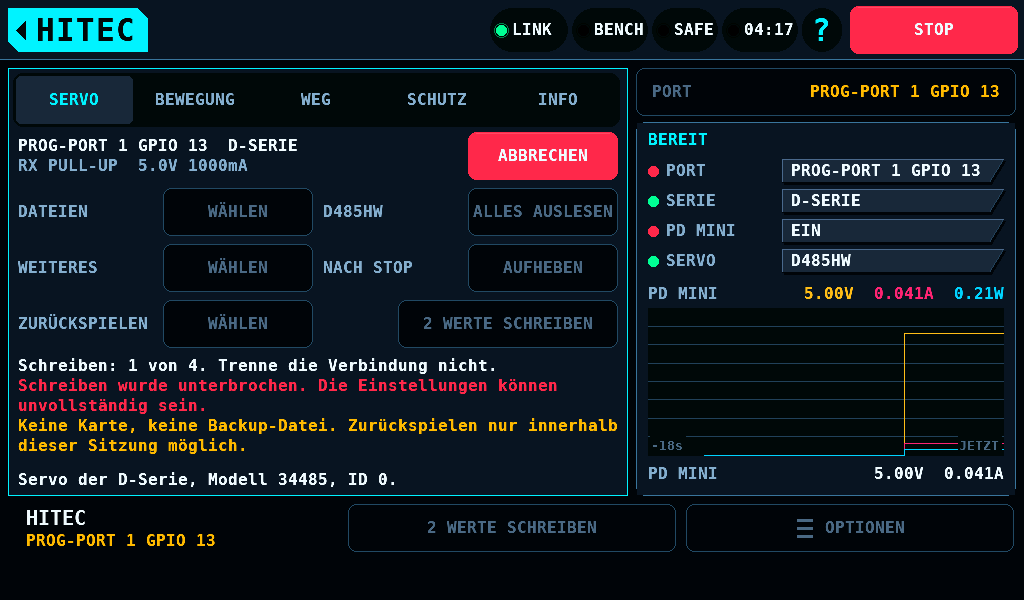
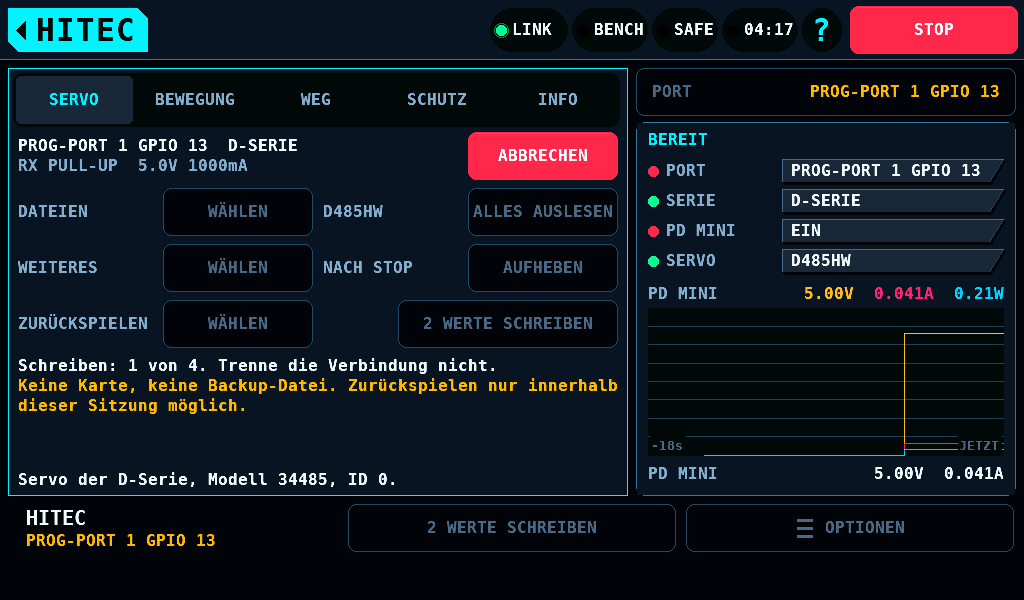
Show no interrupted-write line on the HITEC tab while a write runs

Changed region(s): [[0.0, 0.63, 0.625, 0.75]]

diff --git a/shared/ui/hitec_panel_draw.c b/shared/ui/hitec_panel_draw.c
@@ -87,14 +87,21 @@ static void note(plan_t *p, const char *s, gfx_color_t color)
 
 /**
  * @brief What stands of a write: a record of one interrupted, and a READ
- *        ALL owed before the next.
+ *        ALL owed before the next.  Nothing while a write runs.
  * @param p the plan
  */
 static void record_notes(plan_t *p)
 {
     const hitec_prog_t *pr = &hp.prog;
     const gfx_color_t danger = ui_theme_color(UI_C_DANGER);
+    const hitec_prog_state_t st = hitec_prog_state(pr);
 
+    if (st == HITEC_PROG_RECORDING || st == HITEC_PROG_WRITING
+        || st == HITEC_PROG_BACKUP) {
+        /* The record on the card is the write in flight, not an
+         * interrupted one; the state line says the write's step. */
+        return;
+    }
     if (hitec_prog_record(pr)) {
         switch (hitec_prog_record_verdict(pr)) {
         case HITEC_PROG_REC_NONE:

diff --git a/test/host/test_hitec_panel_write.c b/test/host/test_hitec_panel_write.c
@@ -605,6 +605,8 @@ TEST_CASE(the_overlay_hands_the_record_to_the_card_and_says_each_phase)
     CHECK_EQ(pstate(), HITEC_PROG_WRITING);
     show();
     CHECK(strncmp(hitec_panel_note(0), "Writing 1 of ", 13) == 0);
+    /* The record on the card is this write's: no interrupted write. */
+    CHECK(!note_has(TR(KP_M_JOURNAL)));
     until(HITEC_PROG_HELD);
     show();
     CHECK_STR_EQ(said(), TR(KP_M_WRITTEN_ONE));

diff --git a/docs/HitecProgrammer-de.md b/docs/HitecProgrammer-de.md
@@ -437,7 +437,7 @@ ZURÜCKSPIELEN geprüft endet oder er verworfen wird. Mit Karte
 wird er beim nächsten Start des Panels wieder gelesen: ein Panel, das
 während eines Schreibens neu startet, behält ihn. Dann sagt das
 Meldungsband `Schreiben wurde unterbrochen. Die Einstellungen können unvollständig sein.` und `Benutze das Servo nicht. Schließe es an GPIO 13 an und tippe auf ALLES AUSLESEN.`, und der Reiter SERVO behält die
-erste Zeile, bis ein Servo gelesen ist. Das nächste vollständige Lesen
+erste Zeile, bis ein Servo gelesen ist. Solange das Schreiben läuft, zeigt der Reiter stattdessen den Schritt des Schreibens. Das nächste vollständige Lesen
 vergleicht das Servo mit dem Vermerk, Adresse für Adresse über die
 Adressen, die ein Schreiben ändert:
 

diff --git a/docs/HitecProgrammer.md b/docs/HitecProgrammer.md
@@ -414,7 +414,7 @@ it is discarded. With a card it is read again
 at the panel's next start: a panel that restarts during a write keeps it.
 Then the message band says `Writing was interrupted. The settings may be
 incomplete.` and `Do not use the servo. Connect it to GPIO 13 and tap READ
-ALL.`, and the SERVO tab keeps the first line until a servo is read. The next full read compares the servo with the
+ALL.`, and the SERVO tab keeps the first line until a servo is read. While the write runs, the tab shows the write's step instead. The next full read compares the servo with the
 record, address by address over the addresses a write changes:
 
 | The servo holds | Message | RESTORE offers |

diff --git a/CHANGELOG.md b/CHANGELOG.md
@@ -68,6 +68,9 @@ history is in git.
 
 ### Fixed
 
+- HITEC programmer: while a write runs, the SERVO tab no longer shows
+  `Writing was interrupted. The settings may be incomplete.` for the record
+  of that same write; the state line shows the write's step.
 - German guide texts of the IMU's ZERO and UNZERO: "löscht er den
   Nullpunkt" and "löscht es den RUDER-Nullpunkt".
 - Dim after dims the backlight. The link report's line to the card's
